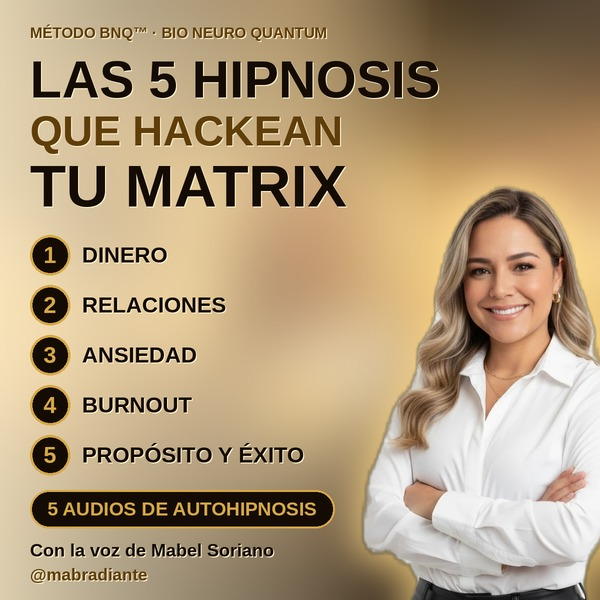
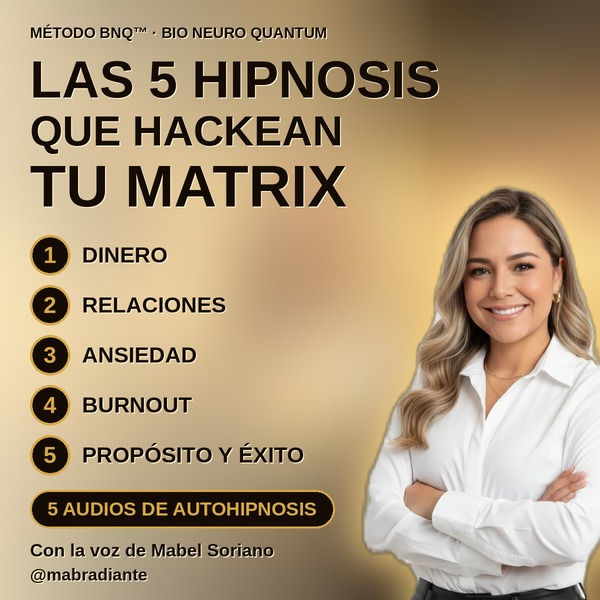
Portada de Hotmart con todas las letras en negro; base dorada con la foto real (pendiente de aprobación)
Claude-Session: https://claude.ai/code/session_01XHpWW3cNoPrwBL8CwPdgsU

diff --git a/nica-apify/hotmart/portada_pack.py b/nica-apify/hotmart/portada_pack.py
@@ -62,9 +62,9 @@ def portada():
     mabel(img)
     d = ImageDraw.Draw(img)
     x = 60
-    texto(d, (x, 48), "MÉTODO BNQ™ · BIO NEURO QUANTUM", 30, CAFE)
+    texto(d, (x, 48), "MÉTODO BNQ™ · BIO NEURO QUANTUM", 30, NEGRO)
     texto(d, (x, 100), "LAS 5 HIPNOSIS", 104, NEGRO)
-    texto(d, (x, 214), "QUE HACKEAN", 84, CAFE)
+    texto(d, (x, 214), "QUE HACKEAN", 84, NEGRO)
     texto(d, (x, 306), "TU MATRIX", 118, NEGRO)
     y = 470
     for i, tema in enumerate(TEMAS, 1):
@@ -80,7 +80,7 @@ def portada():
     d.rounded_rectangle((x, y, x + w, y + 76), 38, fill=NEGRO, outline=ORO, width=4)
     d.text((x + w / 2, y + 38), txt, font=fu, fill=ORO, anchor="mm")
     texto(d, (x, y + 100), "Con la voz de Mabel Soriano", 36, NEGRO)
-    texto(d, (x, y + 150), "@mabradiante", 34, CAFE)
+    texto(d, (x, y + 150), "@mabradiante", 34, NEGRO)
     return img.convert("RGB")
 
 
